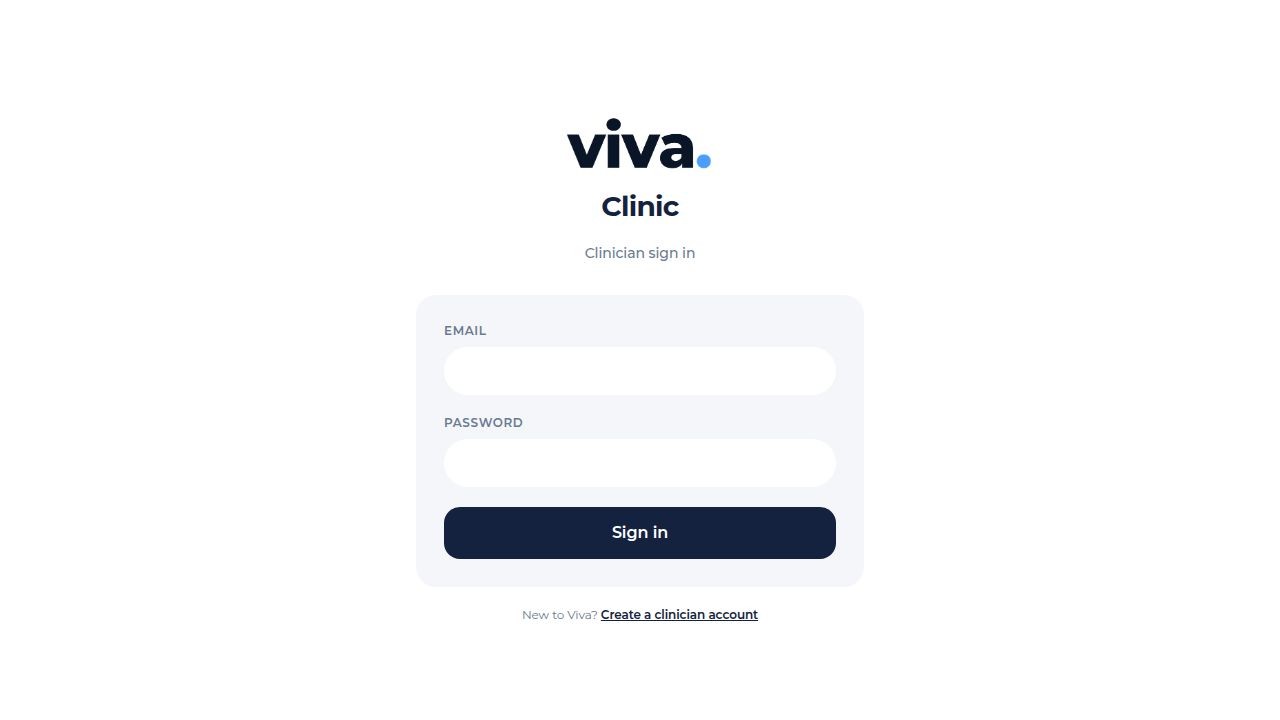
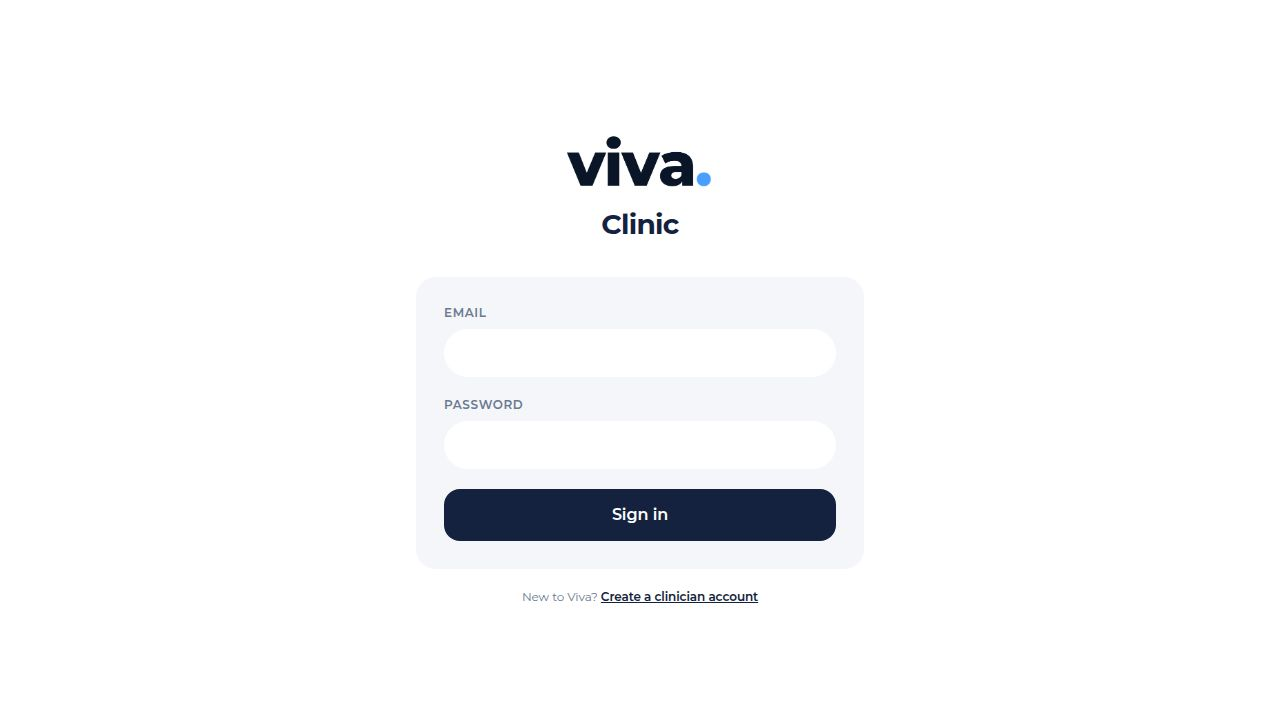
Make the clinician dashboard the primary entry point for the application
Update artifact configurations and server logic to serve the clinician dashboard at the root path ("/") and implement a 301 redirect from the legacy "/viva-dashboard" path to preserve backward compatibility.

Replit-Commit-Author: Agent
Replit-Commit-Session-Id: b6212889-3a96-4af3-be3d-f1bf64826813
Replit-Commit-Checkpoint-Type: full_checkpoint
Replit-Commit-Event-Id: 52e558ca-2be5-45e2-a2d8-6b8d4209a20b
Replit-Commit-Screenshot-Url: https://storage.googleapis.com/screenshot-production-us-central1/d7149012-cea6-407d-b174-e67c347ece2c/b6212889-3a96-4af3-be3d-f1bf64826813/slFaSma
Replit-Helium-Checkpoint-Created: true

diff --git a/artifacts/api-server/src/routes/invite.ts b/artifacts/api-server/src/routes/invite.ts
@@ -289,7 +289,7 @@ const HEAD_LINKS = `
 <link rel="preconnect" href="https://fonts.googleapis.com" />
 <link rel="preconnect" href="https://fonts.gstatic.com" crossorigin />
 <link rel="stylesheet" href="https://fonts.googleapis.com/css2?family=Montserrat:wght@400;500;600;700&display=swap" />
-<link rel="icon" type="image/svg+xml" href="/viva-dashboard/favicon.svg" />`;
+<link rel="icon" type="image/svg+xml" href="/favicon.svg" />`;
 
 // Visual tokens are kept in lockstep with artifacts/viva-dashboard/src/
 // index.css and artifacts/pulse-pilot/constants/colors.ts. If you tweak

diff --git a/artifacts/viva-dashboard/index.html b/artifacts/viva-dashboard/index.html
@@ -3,7 +3,7 @@
   <head>
     <meta charset="UTF-8" />
     <meta name="viewport" content="width=device-width, initial-scale=1.0" />
-    <link rel="icon" type="image/png" href="/viva-dashboard/viva-logo-nobg.png" />
+    <link rel="icon" type="image/png" href="/viva-logo-nobg.png" />
     <title>viva clinic</title>
     <link rel="preconnect" href="https://fonts.googleapis.com" />
     <link rel="preconnect" href="https://fonts.gstatic.com" crossorigin />

diff --git a/artifacts/viva-analytics/src/components/Shell.tsx b/artifacts/viva-analytics/src/components/Shell.tsx
@@ -176,7 +176,7 @@ export function Shell({
             <SectionTitle />
             <div className="flex-1" />
             <a
-              href="/viva-dashboard/"
+              href="/"
               target="_top"
               className="text-[11px] font-semibold text-muted-foreground hover:text-foreground transition-colors hidden sm:inline"
             >

diff --git a/replit.md b/replit.md
@@ -64,7 +64,7 @@ The system is a pnpm workspace monorepo using Node.js 24 and TypeScript 5.9. The
 -   **Weekly Completion**: Tracks completed days within the current calendar week.
 -   **State Management**: Context-based state management (AppContext) for GLP-1 specific fields and logging.
 -   **Navigation**: Tab bar for Today, Plan, Trends, Settings, with modals for subscription and stack navigation for onboarding.
--   **Doctor Dashboard**: A standalone React + Vite web app (`/viva-dashboard/`) for care teams, featuring patient lists, patient details, and care team notes.
+-   **Doctor Dashboard**: A standalone React + Vite web app served at the production root (`/`) for care teams, featuring patient lists, patient details, and care team notes. The legacy `/viva-dashboard/...` path 301-redirects to the equivalent location at the root for backward compatibility with old links.
 -   **Check-in Sync Queue**: Persistent queue (`checkinSync.ts`) for mirroring patient daily state, handling pending snapshots, guidance acks, and escalation requests with retries.
 -   **Daily Check-in Reminders**: Local-only push reminders for the patient app (`reminders.ts`), scheduled at 12:00 PM and 7:00 PM, with logic to prevent duplicates after check-in.
 -   **Invite & Activation**: Invite tokens with a 14-day TTL, atomic activation process, and specific HTTP status codes for various activation states. Patient invites are keyed on phone number.
